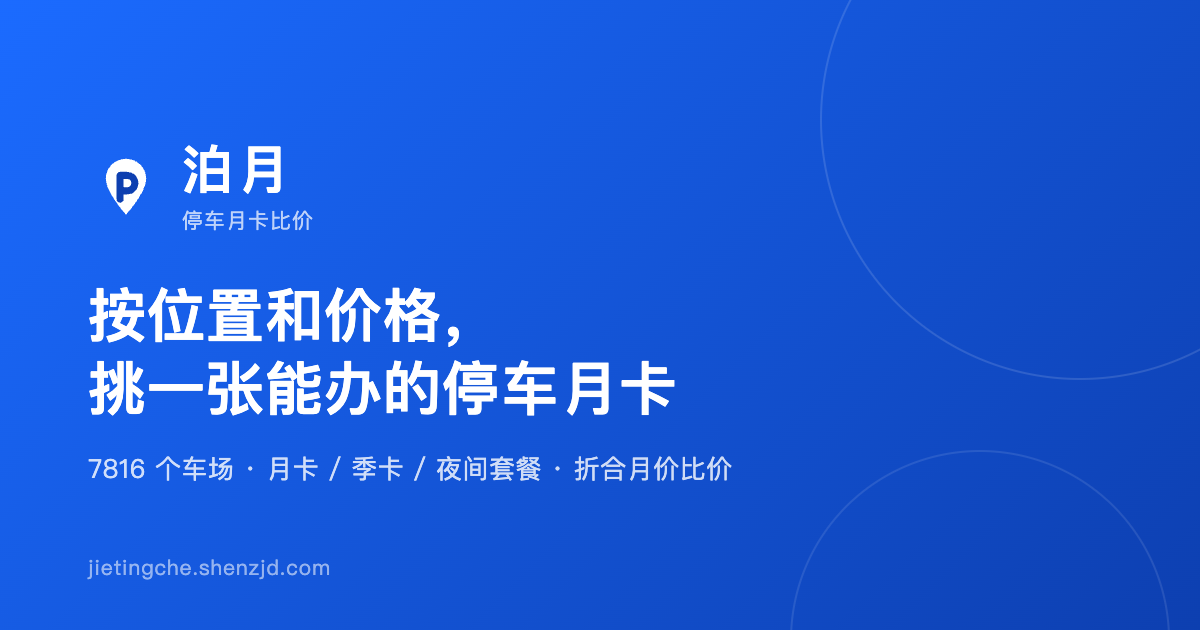
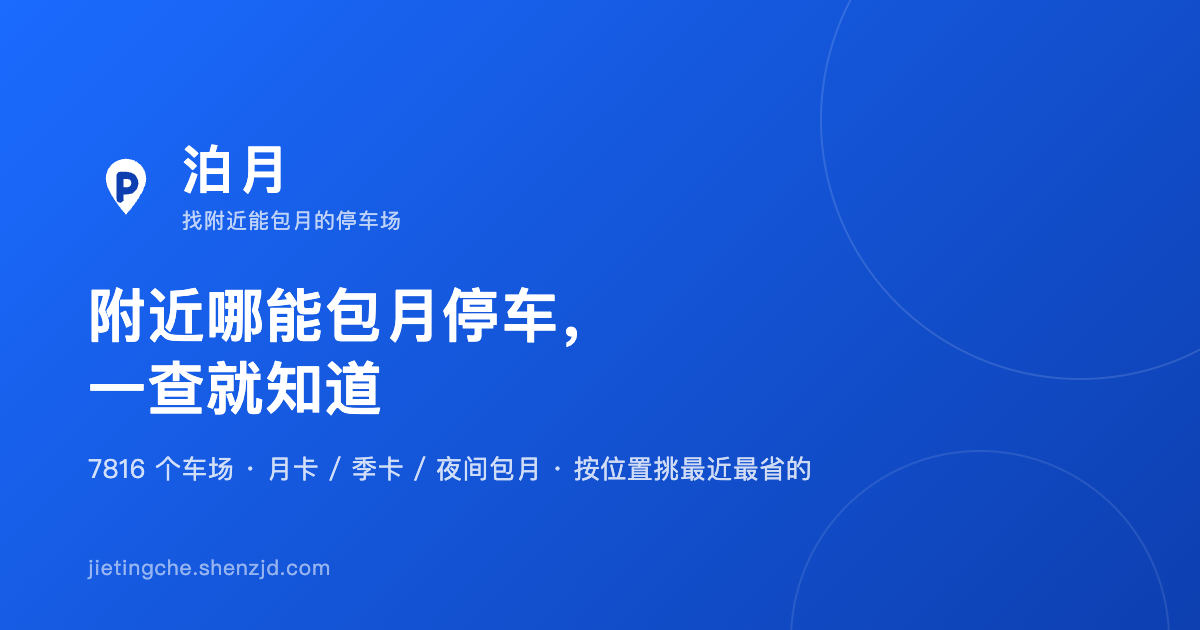
fix(copy): 定位从「停车月卡比价」改成「找附近能包月的停车场」
比价不是这个站在干的事——用户问的是「我车停哪儿」。价格只是筛选维度之一，
先决条件是「附近有没有能包月/能办的车场」。目标客群是深圳、广州、上海这类
大城市里没有固定车位的车主，所以主语和痛点都换掉：

- SITE_TAGLINE / 首页 title：找附近能包月的停车场
- 首页 description：车停哪儿最省？…按位置挑最近最省的那个，扫码在官方小程序直接办
- 首屏 h1：附近哪能包月停车，一查就知道；副标题点出「没固定车位」
- OG 分享图按新文案重出（public/og.png）
- keywords 补「附近停车场」「停车包月多少钱」
- 首页底部收录说明、README 定位段同步

落地页（城市/车场）本来就是「X 月卡价格、月卡最低 N 元起」，措辞不用动。

diff --git a/src/app/layout.tsx b/src/app/layout.tsx
@@ -3,9 +3,9 @@ import type { ReactNode } from "react";
 import { OG_IMAGE, SITE_NAME, SITE_TAGLINE, SITE_URL } from "@/lib/seo";
 import "./globals.css";
 
-const TITLE_DEFAULT = `${SITE_NAME} · ${SITE_TAGLINE}，车场月卡秒查`;
+const TITLE_DEFAULT = `${SITE_NAME} · ${SITE_TAGLINE}`;
 const DESCRIPTION =
-  "按月价对比 7816 个车场的月卡、季卡、夜间套餐，按位置和需求筛，选好套餐扫码直接在捷停车官方小程序办理。";
+  "车停哪儿最省？深圳、广州、上海等城市的停车场月卡、季卡、夜间包月都收在这，按位置挑最近最省的那个，扫码在捷停车官方小程序直接办。";
 
 export const metadata: Metadata = {
   // 所有相对 canonical / og:url 都以线上域名为准，避免构建期解析成 localhost
@@ -17,11 +17,11 @@ export const metadata: Metadata = {
   description: DESCRIPTION,
   keywords: [
     "停车月卡",
-    "停车场月租",
-    "夜间停车套餐",
-    "停车优惠",
-    "月卡多少钱",
     "停车场包月",
+    "停车场月租",
+    "附近停车场",
+    "夜间停车套餐",
+    "停车包月多少钱",
   ],
   applicationName: SITE_NAME,
   alternates: { canonical: "/" },

diff --git a/src/components/HomeSearch.tsx b/src/components/HomeSearch.tsx
@@ -353,14 +353,14 @@ export default function HomeSearch() {
           <BrandPin className="h-5 w-5 shrink-0" />
           <span className="text-[15px] font-semibold leading-none tracking-[0.18em]">泊月</span>
           <span className="ml-0.5 rounded-full bg-white/15 px-1.5 py-0.5 text-[10px] leading-none text-white/85">
-            停车月卡比价
+            找能包月的停车场
           </span>
         </div>
         <h1 className="mt-2.5 text-[19px] font-semibold leading-tight">
-          停车月卡比临停便宜一半
+          附近哪能包月停车，一查就知道
         </h1>
         <div className="mt-1 text-xs text-white/80">
-          根据你的位置和需求挑车场，选好套餐扫码就能办
+          没固定车位？按位置挑最近最省的，扫码直接在官方小程序办
         </div>
         <div className="mt-3">
           <input

diff --git a/src/lib/seo.ts b/src/lib/seo.ts
@@ -7,8 +7,13 @@
 
 export const SITE_NAME = "泊月";
 
-/** 站点一句话定位，标题栏、OG 图、页头副标题共用 */
-export const SITE_TAGLINE = "停车月卡比价";
+/**
+ * 站点一句话定位，标题栏、OG 图、页头副标题共用。
+ *
+ * 不是「比价站」——用户要的是「我车停哪儿」，所以主语是「找停车场」，
+ * 价格只是筛选维度之一（离得近、能包月、能办，比「谁更便宜」更先决）。
+ */
+export const SITE_TAGLINE = "找附近能包月的停车场";
 
 /** 1200×630 分享图，源文件见 scripts/brand/og-card.html */
 export const OG_IMAGE = "/og.png";

diff --git a/scripts/brand/og-card.html b/scripts/brand/og-card.html
@@ -76,11 +76,11 @@
       </svg>
       <div>
         <div class="nm">泊月</div>
-        <div class="tg">停车月卡比价</div>
+        <div class="tg">找附近能包月的停车场</div>
       </div>
     </div>
-    <h1>按位置和价格，<br/>挑一张能办的停车月卡</h1>
-    <p>7816 个车场 · 月卡 / 季卡 / 夜间套餐 · 折合月价比价</p>
+    <h1>附近哪能包月停车，<br/>一查就知道</h1>
+    <p>7816 个车场 · 月卡 / 季卡 / 夜间包月 · 按位置挑最近最省的</p>
     <div class="domain">jietingche.shenzjd.com</div>
   </div>
 </body>

diff --git a/src/components/seo/HomeLinks.tsx b/src/components/seo/HomeLinks.tsx
@@ -91,7 +91,7 @@ export default async function HomeLinks() {
       ) : null}
 
       <p className="px-1 pb-2 text-[11px] leading-relaxed text-muted">
-        {SITE_NAME}收录了全国主要城市的停车场月卡、季卡与夜间套餐，按位置和价格筛选后扫码即可在捷停车官方小程序办理。
+        {SITE_NAME}收录了全国主要城市的停车场月卡、季卡与夜间套餐，按位置挑最近、最省的那个，扫码即可在捷停车官方小程序办理。
         价格与规则以官方页面为准，本站不代收费用。
       </p>
     </section>

diff --git a/README.md b/README.md
@@ -1,7 +1,8 @@
 # 泊月（jietingche）
 
-站点名「泊月」，停车月卡比价。按位置和需求找停车场优惠套餐（月卡 / 季卡 / 夜间包月…），
-选好套餐直接扫码办理。
+站点名「泊月」，定位是**找附近能包月的停车场**：面向深圳、广州、上海这类大城市里
+没有固定车位、正发愁车停哪儿的车主，按位置把能包月的车场（月卡 / 季卡 / 夜间包月…）
+挑出来，选好套餐直接扫码办理。
 数据来自捷停车分销选品池。访客链路：**首页搜索 → 城市/区域/车场落地页 → 出码**，
 落地页全部服务端渲染，专门给搜索引擎和分享落地用（见「SEO / 落地页」）。
 管理端全部收在 `/admin/*`，需要口令才能进，前台没有任何入口暴露它们。
